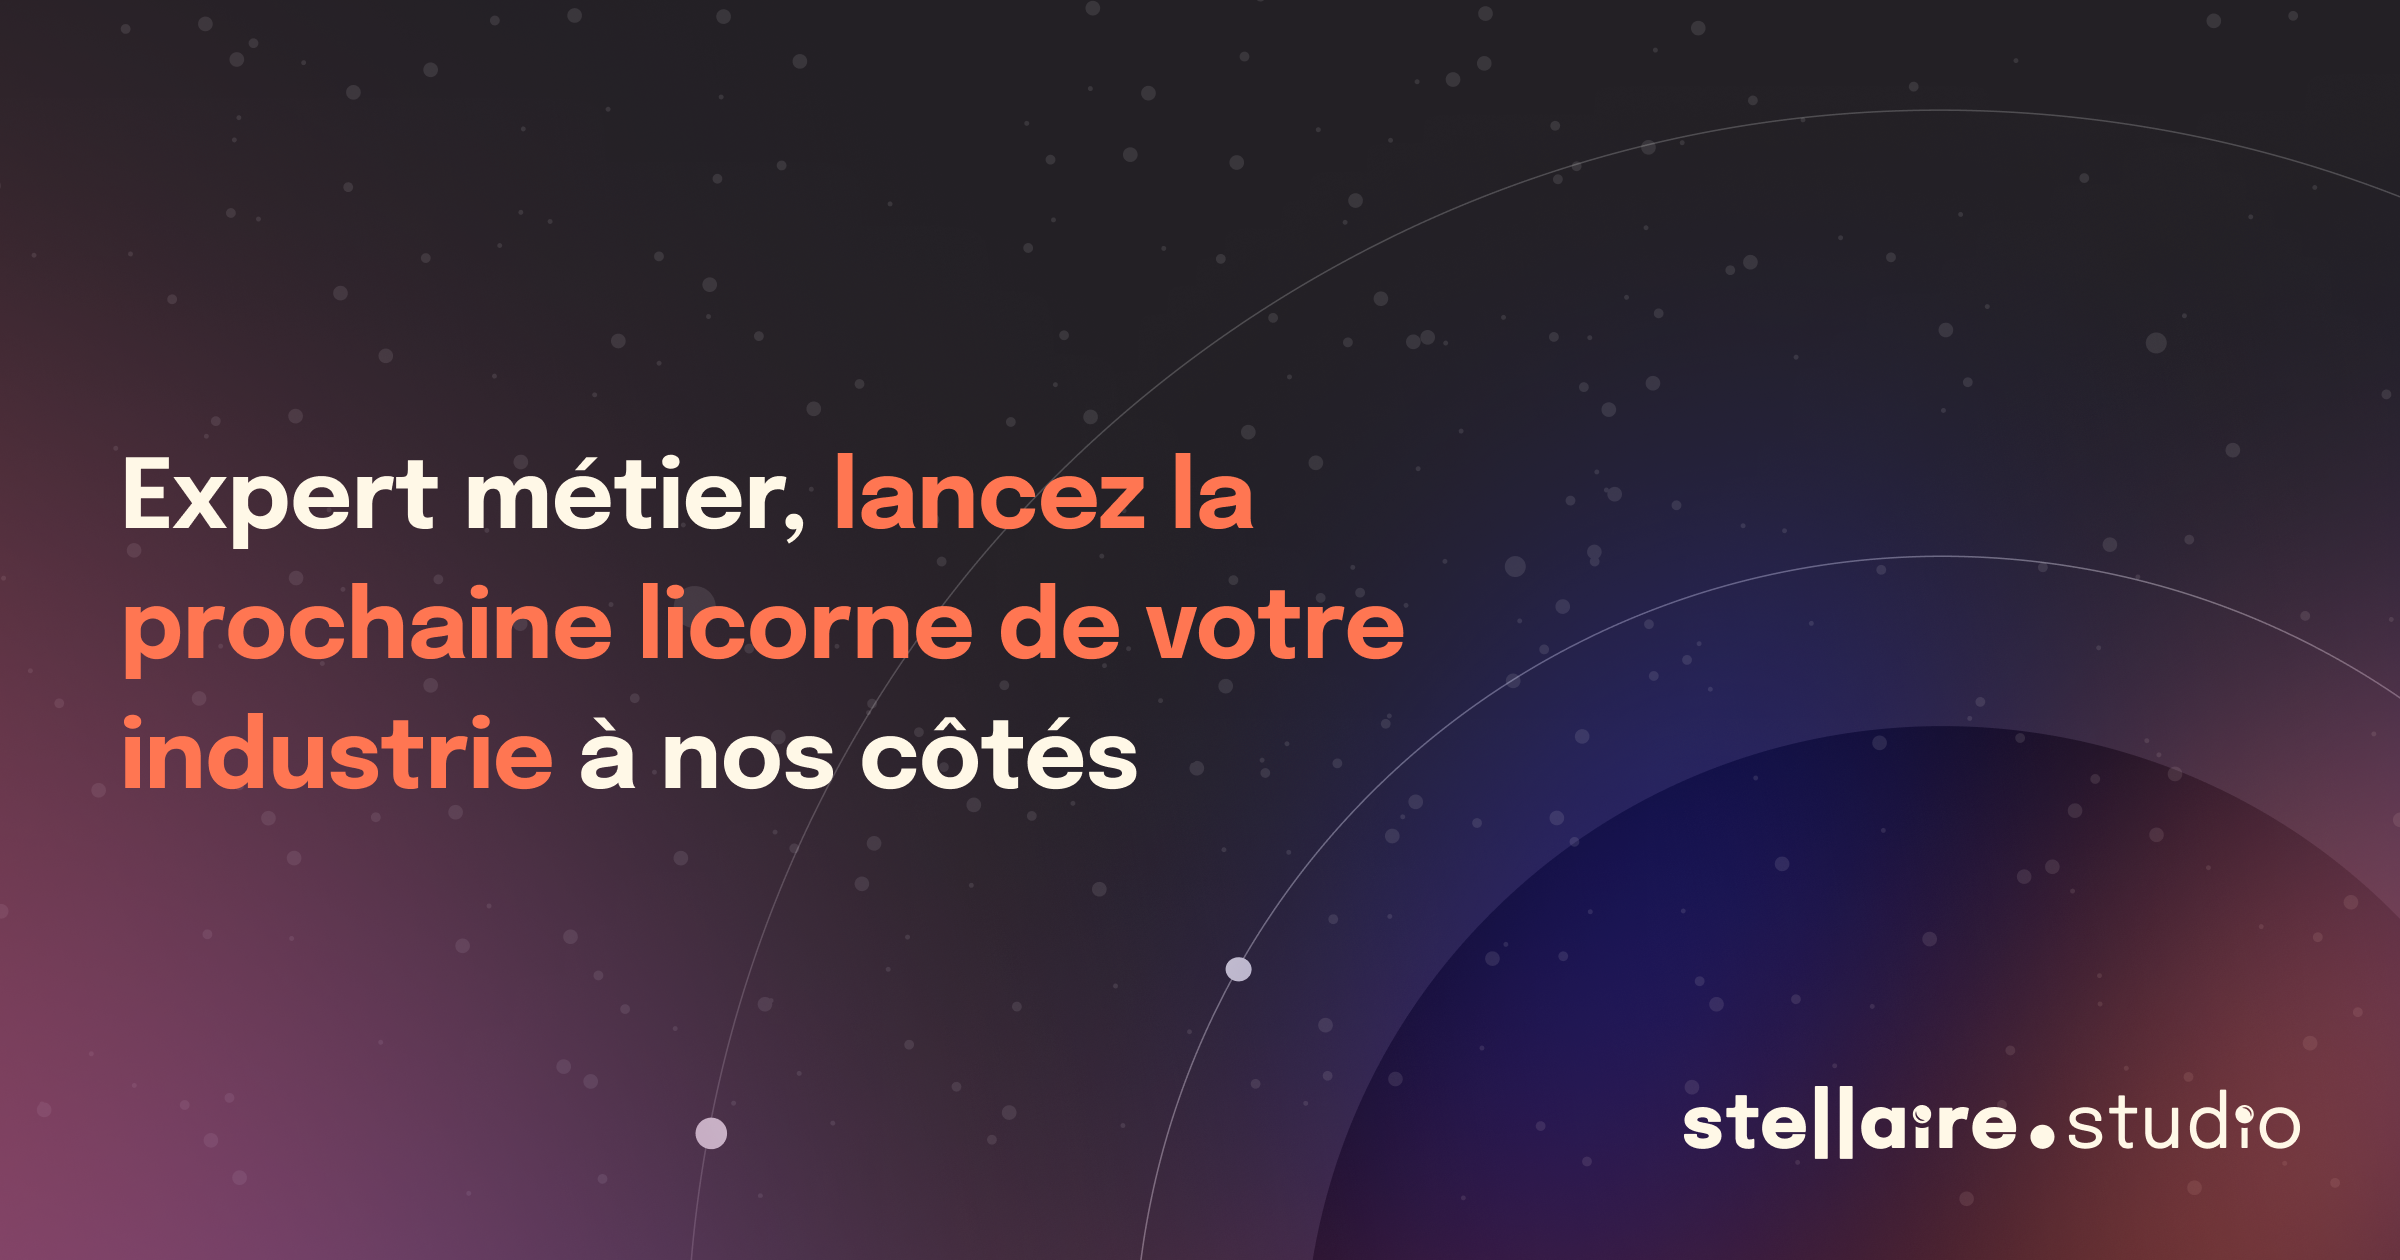
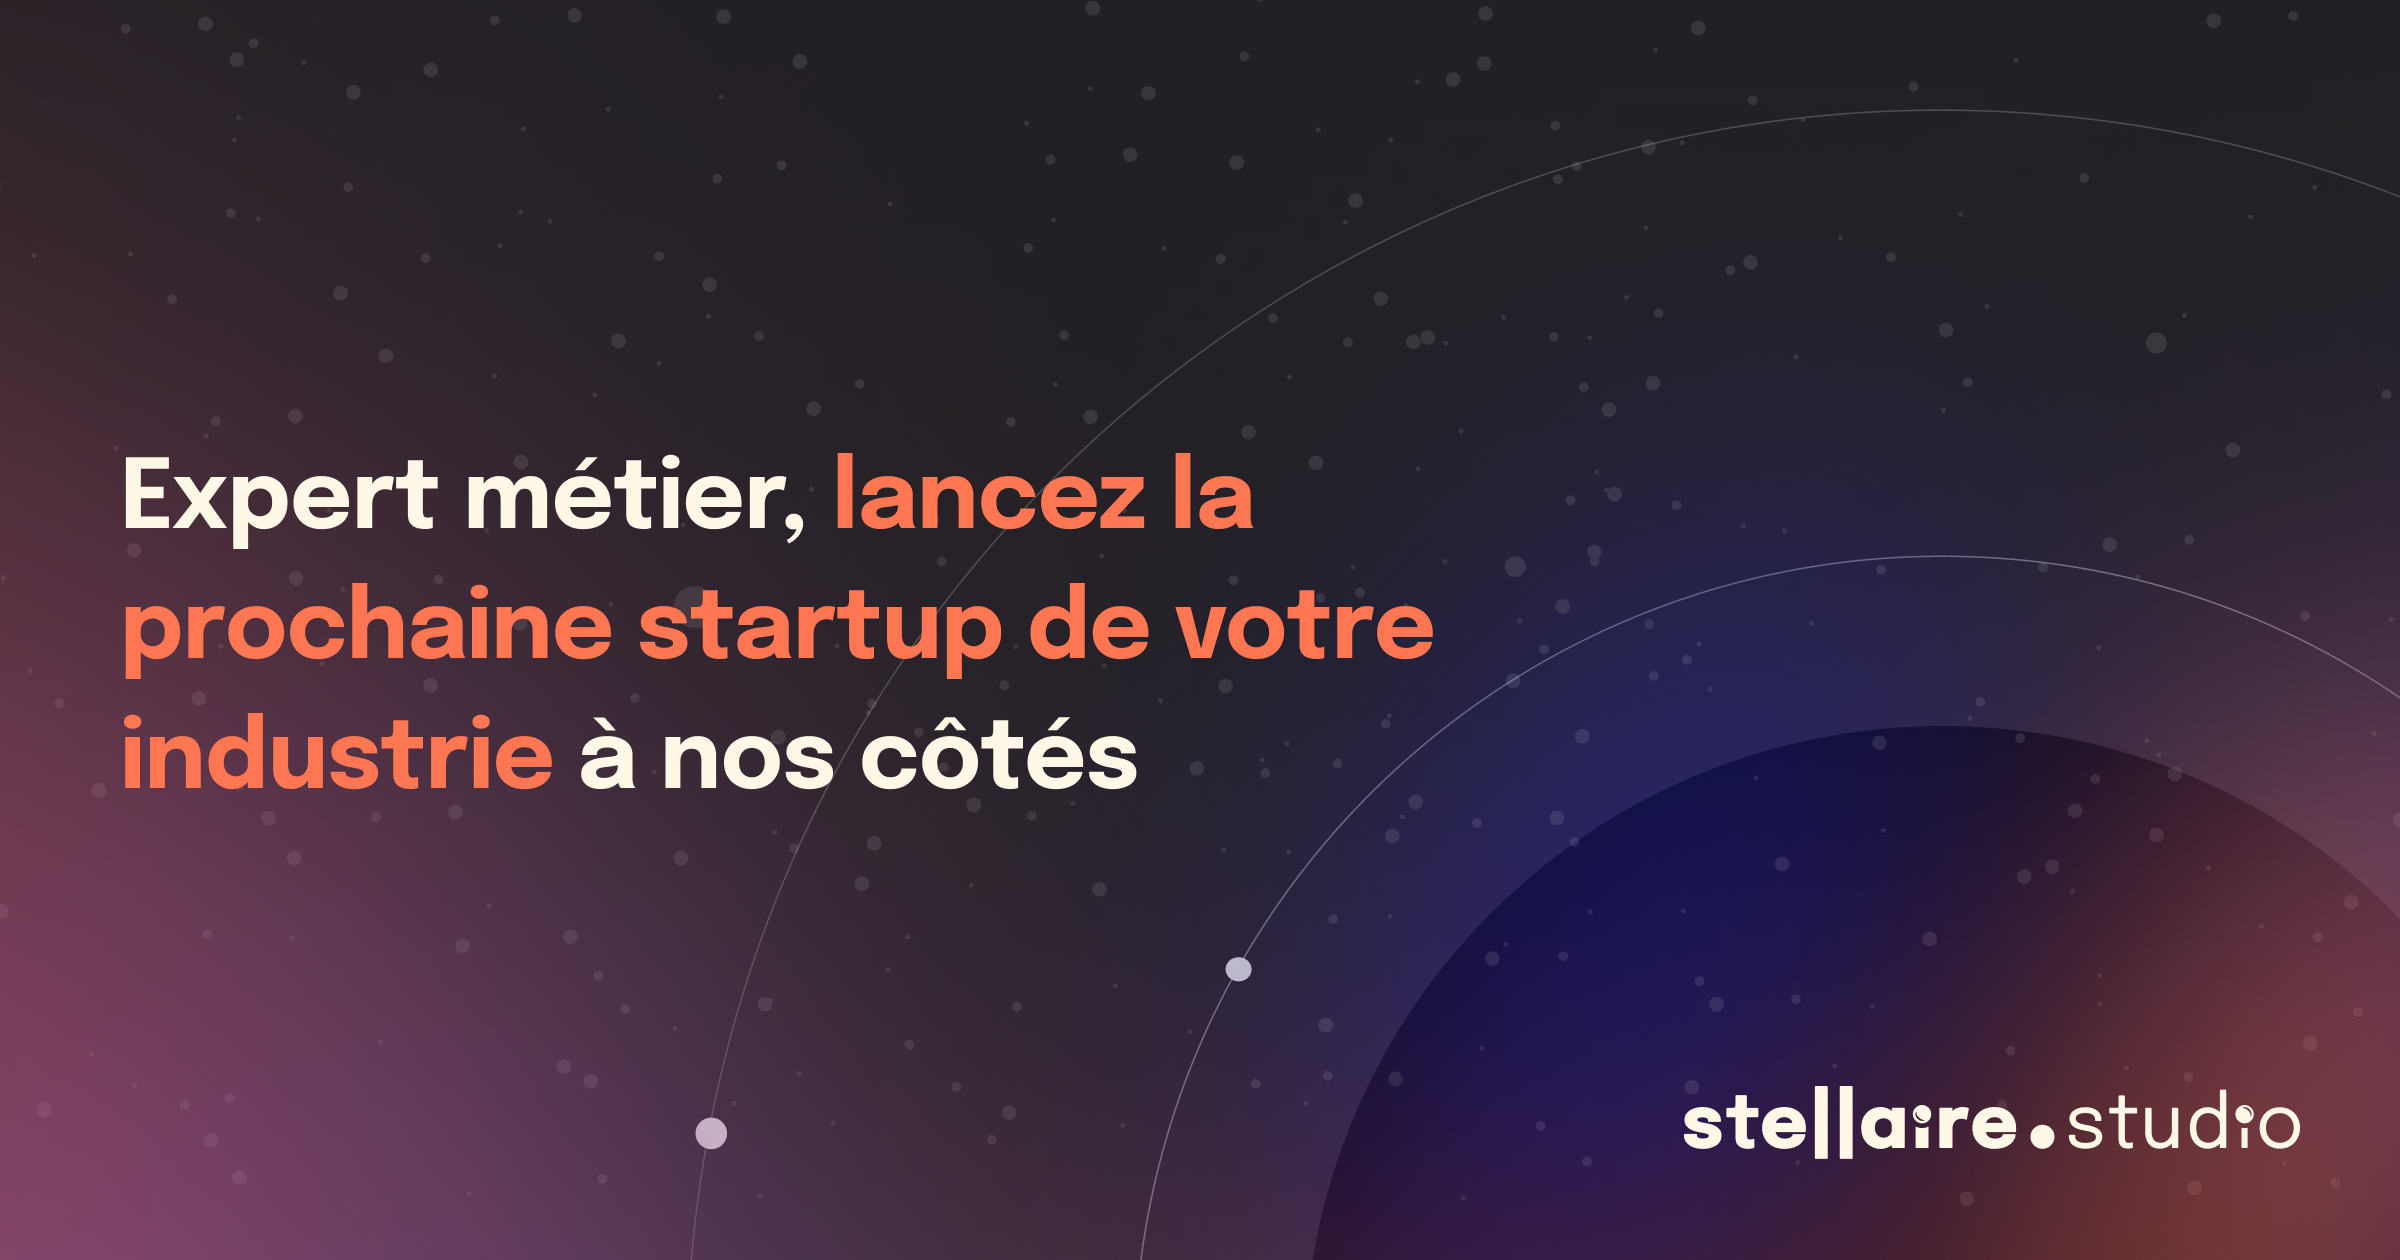
Licorne -> startup

Changed region(s): [[0.25, 0.4643, 0.5938, 0.5262]]

diff --git a/studio/index.html b/studio/index.html
@@ -68,7 +68,7 @@
     </nav>
     <div class="header">
       <h1>
-        Expert métier, <span class="emphaze">lancez la prochaine licorne de votre industrie</span> à nos côtés.
+        Expert métier, <span class="emphaze">lancez la prochaine startup de votre industrie</span> à nos côtés.
       </h1>
       <p>
         <strong>Nous investissons à vos côtés jusqu'à 400k€</strong> pour lancer une startup<span
